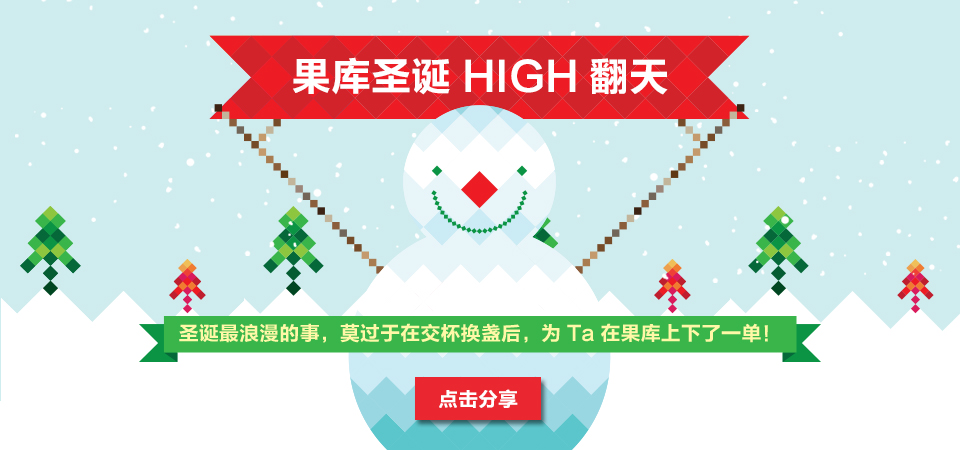
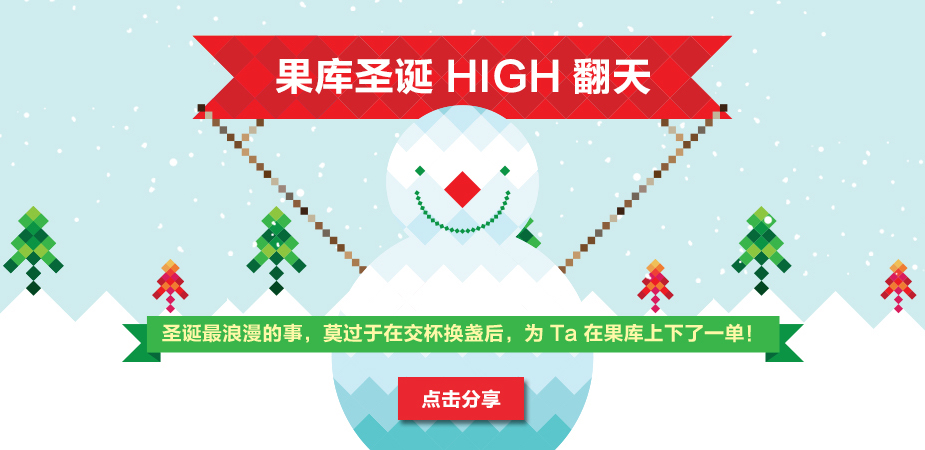
圣诞

diff --git a/raspberry/web/templates/events/home_20141225.html b/raspberry/web/templates/events/home_20141225.html
@@ -3,7 +3,21 @@
 
 {% block bg %}
 <div class="row" style="margin-bottom:20px;margin-top:-60px;">
-    <div class="col-sm-12" style="background: #FFFFFF url({% static 'images/event/1225-bg.jpg' %}) repeat-x scroll top;height:580px;">
+    <div class="col-sm-12" style="background: #FFFFFF url({% static 'images/event/1225-bg.jpg' %}) repeat-x scroll top;height:auto;">
+
+	  	<a href="#" data-toggle="modal" data-target="#shareModal" > <img class="img-responsive" src="{% static 'images/event/1225-banner.png' %}" style=" margin:40px auto 0px auto;"></a>
+	  	<!-- Modal -->
+		<div class="modal fade" id="shareModal" tabindex="-1" role="dialog" aria-labelledby="myModalLabel" aria-hidden="true">
+		  <div class="modal-dialog">
+		    <div class="modal-content">
+		      <div class="modal-body">
+		       		<a class="btn btn-default btn-weibo" href="http://service.weibo.com/share/share.php?url=http://www.guoku.com/event/20141225/&type=3&count=0&appkey=1459383851&title=#果库圣诞High翻天# 圣诞最浪漫的事，莫过于在交杯换盏后，为 Ta 在果库上下了一单！&pic=http://static.guoku.com/static/v3/images/event/1225-weibo-share.png&ralateUid=2179686555" target="_blank"><img class="img-responsive" src="{% static 'images/event/1225-popup.jpg' %}"></a>
+		        				    
+		      </div>
+		    </div>
+		  </div>
+		</div>
+
     </div>
 </div>
 {% endblock %}
